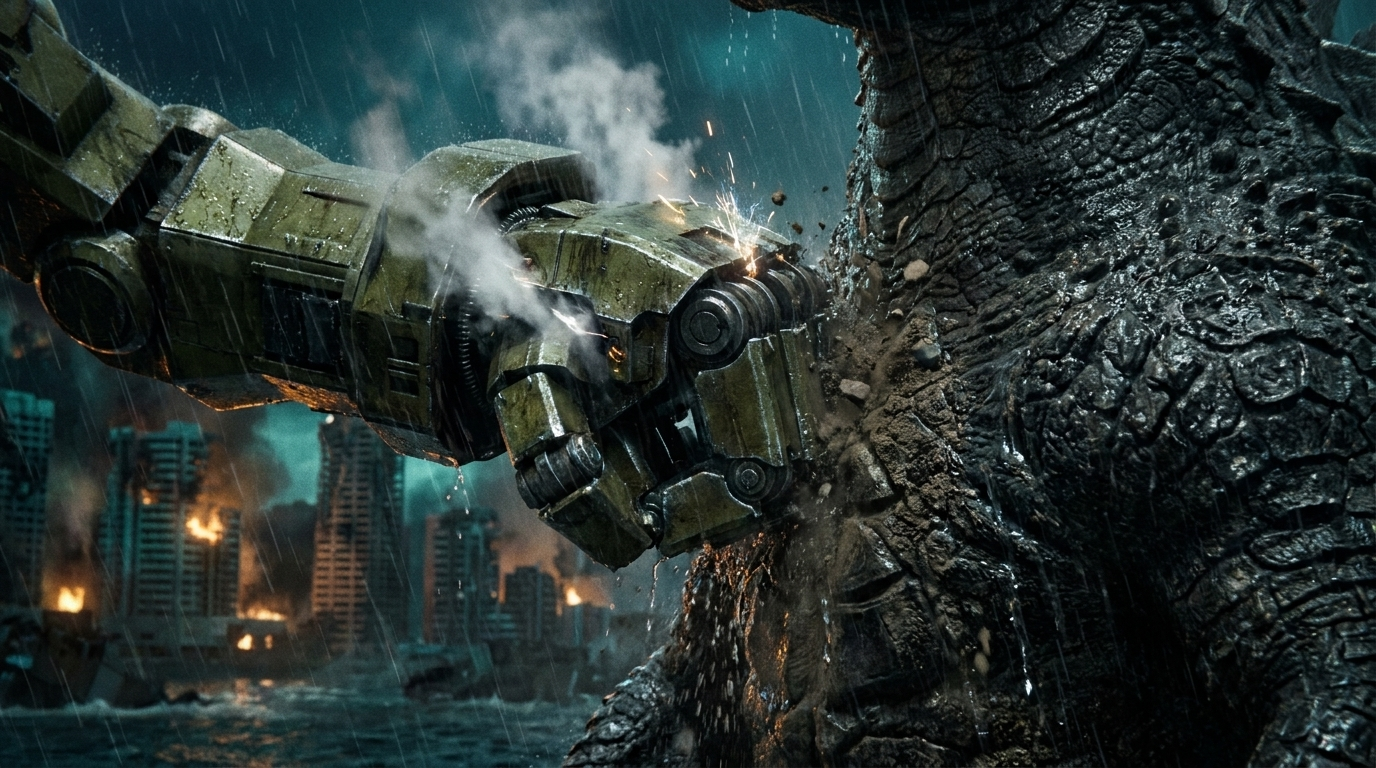
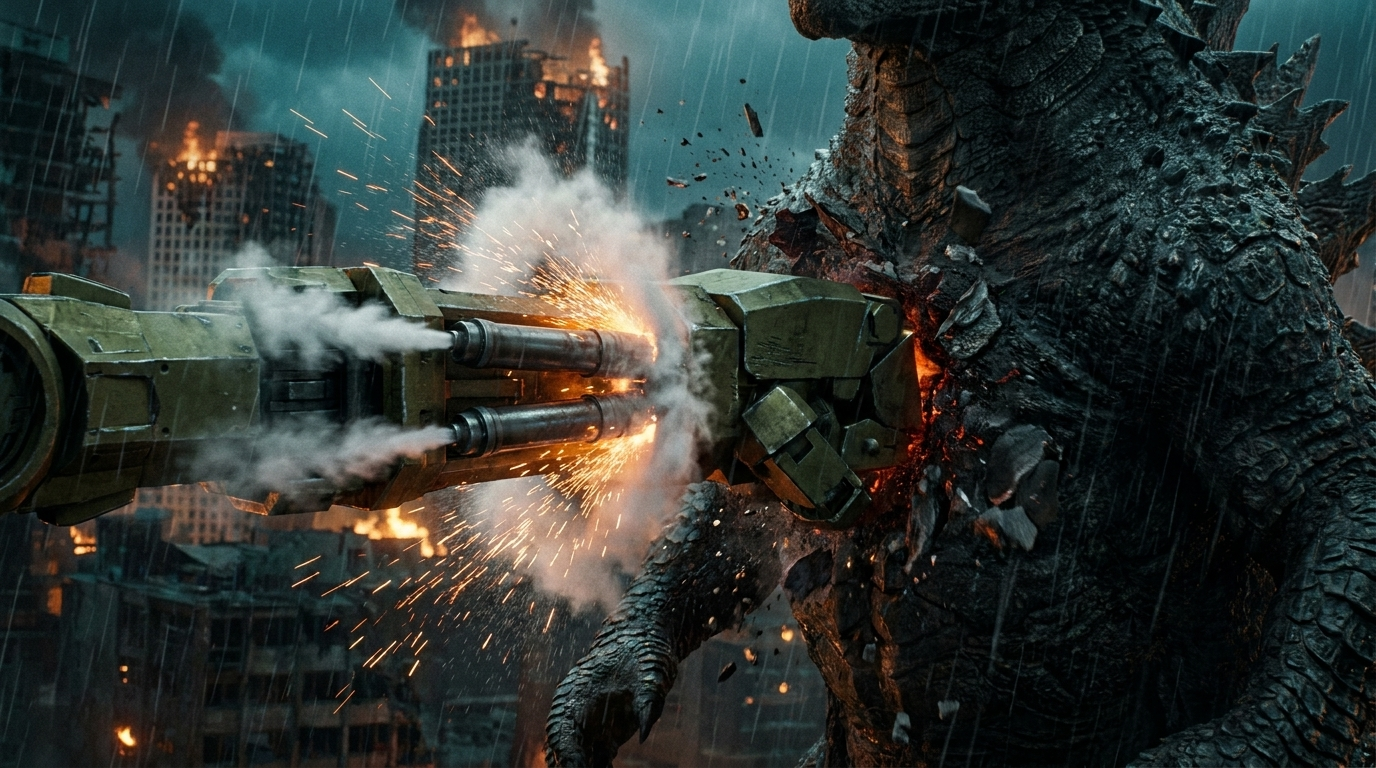
Update Beat 04 (shot_13-shot_16) keyframes on city street without ocean water

diff --git a/projects/cherno-alpha-vs-godzilla/PROGRESS.md b/projects/cherno-alpha-vs-godzilla/PROGRESS.md
@@ -21,7 +21,7 @@ Kết thúc phiên: `media-push` rồi `git add -A && git commit && git push` (q
 - **Slug:** `cherno-alpha-vs-godzilla` — thư mục `projects/cherno-alpha-vs-godzilla/` (KHÔNG `init` dự án mới)
 - **Flow:** https://flow.google.com/project/eba75017-1af5-48e6-b95b-1b0d6294c221
 - **Ngôn ngữ / khung:** en / 16:9; giọng dẫn `-`
-- **Cập nhật lần cuối:** 2026-10-22T18:00:11 trên máy **DESKTOP-HUP72C4** (lệnh `storyboard`)
+- **Cập nhật lần cuối:** 2026-10-22T20:20:06 trên máy **DESKTOP-HUP72C4** (lệnh `storyboard`)
 - **Storyboard:** chưa duyệt
 
 ## ▶ Bước tiếp theo: 4. 🧑 Chờ người dùng duyệt storyboard
@@ -152,6 +152,13 @@ python scripts/studio_helper.py storyboard-approve --project cherno-alpha-vs-god
 
 | Lúc | Máy | Lệnh | Kết quả |
 |---|---|---|---|
+| 10-22 20:20 | DESKTOP-HUP72C4 | `storyboard ` | ok |
+| 10-22 20:19 | DESKTOP-HUP72C4 | `flow-harvest --kind image --shots shot_16 --wait` | ok |
+| 10-22 20:17 | DESKTOP-HUP72C4 | `flow-generate --kind frames --shots shot_16 --count 2` | ok |
+| 10-22 20:16 | DESKTOP-HUP72C4 | `flow-harvest --kind image --shots shot_16 --wait` | ok |
+| 10-22 20:16 | DESKTOP-HUP72C4 | `flow-generate --kind frames --shots shot_16 --count 2` | ok |
+| 10-22 20:13 | DESKTOP-HUP72C4 | `flow-harvest --kind image --shots shot_13,shot_14,shot_15,shot_16 --wait` | ok |
+| 10-22 20:13 | DESKTOP-HUP72C4 | `flow-generate --kind frames --shots shot_13,shot_14,shot_15,shot_16 --count 2` | ok |
 | 10-22 18:00 | DESKTOP-HUP72C4 | `storyboard ` | ok |
 | 10-22 17:59 | DESKTOP-HUP72C4 | `storyboard ` | ok |
 | 10-22 17:58 | DESKTOP-HUP72C4 | `flow-harvest --kind image --shots shot_11,shot_12 --wait` | ok |
@@ -160,10 +167,3 @@ python scripts/studio_helper.py storyboard-approve --project cherno-alpha-vs-god
 | 10-22 17:53 | DESKTOP-HUP72C4 | `flow-harvest --kind image --shots shot_09,shot_10,shot_11,shot_12 --wait` | ok |
 | 10-22 17:49 | DESKTOP-HUP72C4 | `flow-generate --kind frames --shots shot_09,shot_10,shot_11,shot_12 --count 2` | ok |
 | 10-22 17:27 | DESKTOP-HUP72C4 | `storyboard ` | ok |
-| 10-22 17:25 | DESKTOP-HUP72C4 | `flow-harvest --kind image --shots shot_05,shot_06,shot_07 --wait` | ok |
-| 10-22 17:24 | DESKTOP-HUP72C4 | `flow-generate --kind frames --shots shot_05,shot_06,shot_07 --count 2` | ok |
-| 10-22 17:23 | DESKTOP-HUP72C4 | `flow-harvest --kind image --shots shot_05,shot_06,shot_07 --wait` | ok |
-| 10-22 17:23 | DESKTOP-HUP72C4 | `flow-generate --kind frames --shots shot_05,shot_06,shot_07 --count 2` | ❌ FlowError: Không kết nối được Chrome cổng 9222 — chạy `check-browser --launch`.  |
-| 10-21 21:28 | DESKTOP-HUP72C4 | `storyboard ` | ok |
-| 10-21 21:27 | DESKTOP-HUP72C4 | `flow-harvest --kind image --shots shot_06,shot_07,shot_08 --wait` | ok |
-| 10-21 21:25 | DESKTOP-HUP72C4 | `flow-generate --kind frames --shots shot_06,shot_07,shot_08 --count 2` | ok |
